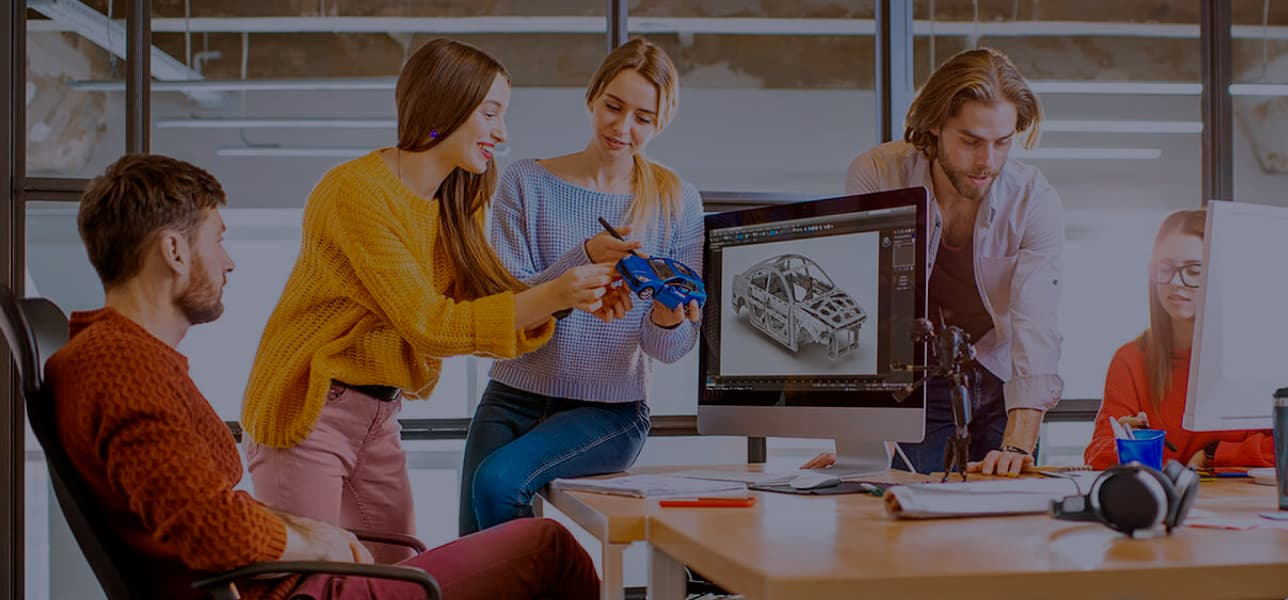
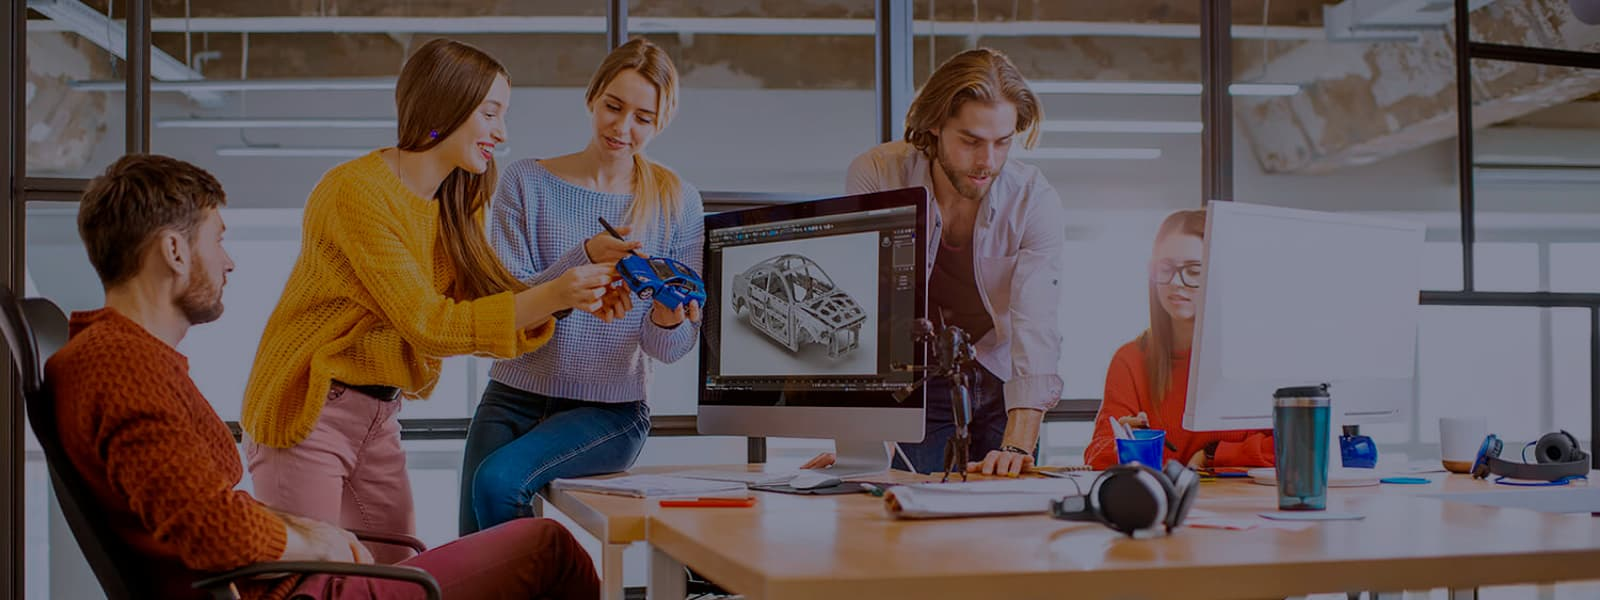
hero image updated

diff --git a/sass/layouts/_hero.scss b/sass/layouts/_hero.scss
@@ -7,7 +7,7 @@
     max-width: 1600px;
     margin: 0 auto;
     height: 600px;
-    background-size: cover;
+    background-size: contain;
 }
 
 .hero-section__content{
